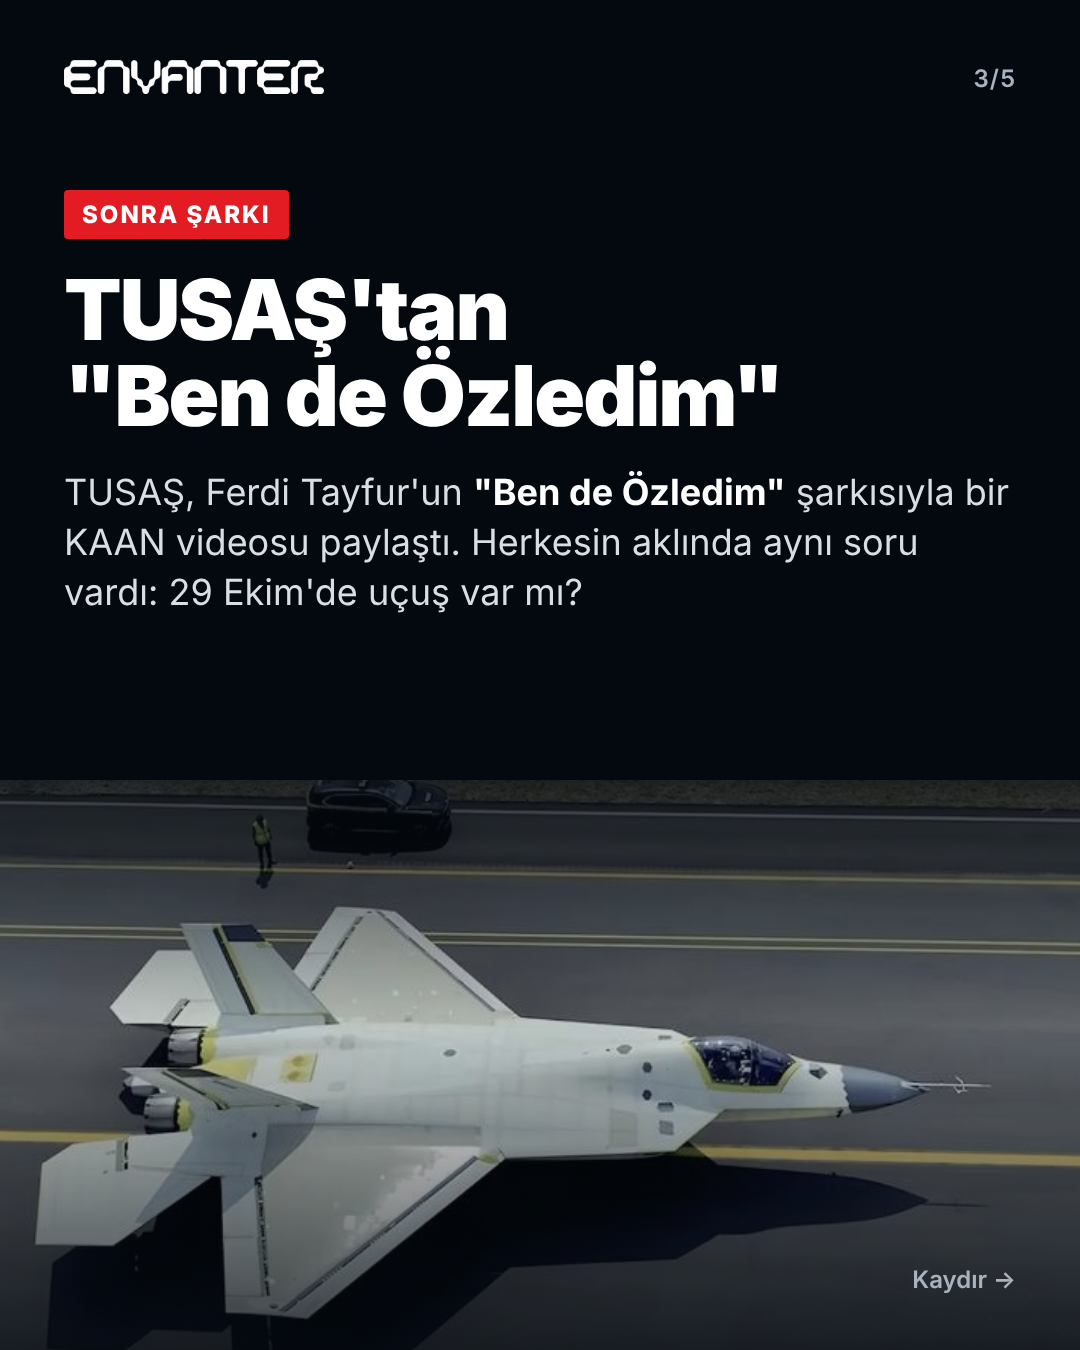
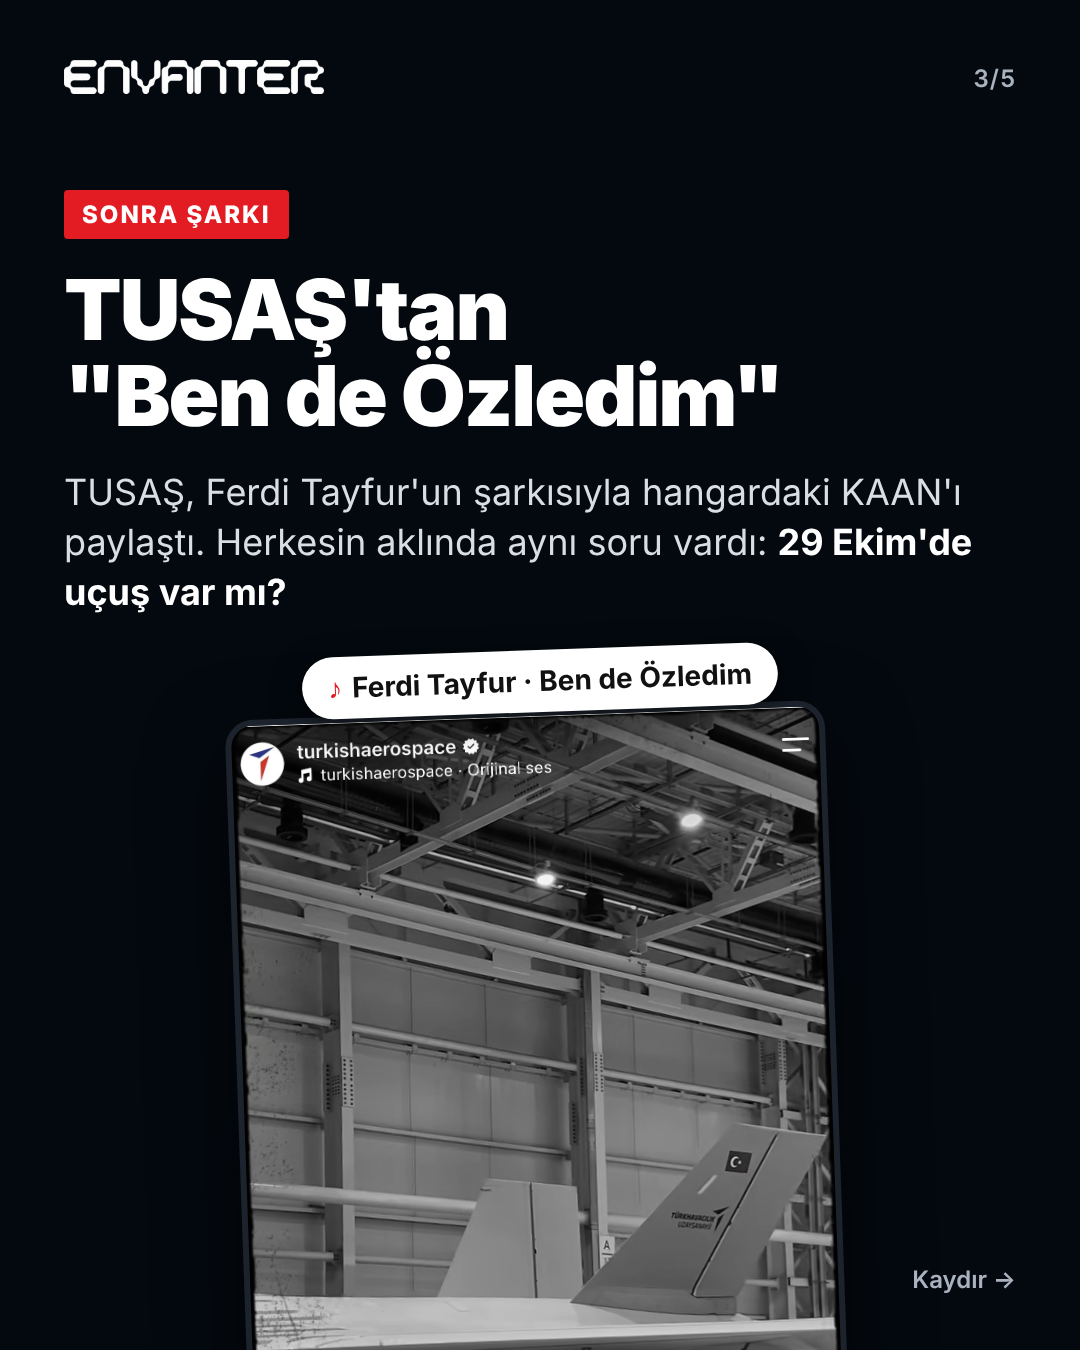
KAAN 29 Ekim carousel'i: 2. slayta iki KAAN kravatı, 3. slayta TUSAŞ paylaşımı eklendi
Claude-Session: https://claude.ai/code/session_01AWoAGzbCcH5xr3TPTj3t44

diff --git a/kartlar/kaan-29-ekim/seri.html b/kartlar/kaan-29-ekim/seri.html
@@ -42,6 +42,20 @@ body{background:#000;font-family:"Inter",sans-serif;}
 .c5 .peek{position:absolute;left:50%;bottom:-180px;width:900px;height:760px;transform:translateX(-50%);background:url(_src/ghost.jpg) -113px -470px/1126px 1397px no-repeat;
   -webkit-mask-image:linear-gradient(180deg,transparent 0%,#000 30%);mask-image:linear-gradient(180deg,transparent 0%,#000 30%)}
 .cta{display:inline-block;margin-top:40px;border:3px solid #fff;border-radius:999px;padding:16px 30px;font-size:30px;font-weight:700}
+
+/* slide 2 ties */
+.ties{position:absolute;left:64px;right:64px;top:560px;display:flex;gap:24px;z-index:4}
+.tie{position:relative;flex:1;height:640px;border-radius:14px;overflow:hidden;background:#111}
+.tie .ph{position:absolute;inset:0;background-size:cover;background-position:center top}
+.tie .sh{position:absolute;left:0;right:0;bottom:0;height:300px;background:linear-gradient(180deg,rgba(4,9,15,0),rgba(4,9,15,.95))}
+.tie .dt{position:absolute;left:22px;bottom:110px;width:170px;height:170px;border-radius:50%;border:5px solid #fff;background-size:118%;background-position:center;box-shadow:0 10px 30px rgba(0,0,0,.5)}
+.tie .cap{position:absolute;left:24px;right:20px;bottom:30px;font-size:30px;font-weight:800;line-height:1.15}
+.tie .cap span{display:block;font-size:22px;font-weight:500;color:var(--mute);margin-top:6px}
+.credit{position:absolute;left:64px;bottom:56px;font-size:20px;letter-spacing:1.5px;color:var(--mute);z-index:5}
+/* slide 3 tusas */
+.phone{position:absolute;left:50%;top:710px;width:600px;height:900px;transform:translateX(-50%) rotate(-2deg);border-radius:28px;overflow:hidden;border:6px solid #1c232d;box-shadow:0 30px 80px rgba(0,0,0,.6);background:url(_src/tusas-video.jpg) center top/600px auto no-repeat;z-index:3}
+.song{position:absolute;left:50%;top:650px;transform:translateX(-50%) rotate(-2deg);z-index:6;background:#fff;color:#111;border-radius:999px;padding:14px 26px;font-size:28px;font-weight:700;white-space:nowrap;box-shadow:0 10px 30px rgba(0,0,0,.5)}
+.song i{font-style:normal;color:var(--red);margin-right:10px}
 </style></head><body>
 
 <!-- 1 -->
@@ -61,10 +75,18 @@ body{background:#000;font-family:"Inter",sans-serif;}
   <img class="logo" src="_src/logo-white.png"><div class="num">2/5</div>
   <div class="text">
     <span class="label">ÖNCE KRAVAT</span>
-    <div class="h">Bayram öncesi ilk ipucu</div>
-    <div class="p">Cumhurbaşkanı Erdoğan'ın <b>KAAN temalı kravatı</b> gözlerden kaçmadı. Millî muharip uçak yine gündemin tam ortasındaydı.</div>
+    <div class="h">İki kravat, tek desen</div>
+    <div class="p">Cumhurbaşkanı Erdoğan önce TBMM'de mavi, 29 Ekim'de Anıtkabir'de kırmızı <b>KAAN desenli kravatla</b> görüntülendi.</div>
   </div>
-  <div class="photo" style="background-image:url(_src/kaan-top2.jpg);background-size:auto 820px;background-position:-250px 40px"></div><div class="fade"></div>
+  <div class="ties">
+    <div class="tie"><div class="ph" style="background-image:url(_src/erdogan-mavi.jpg)"></div><div class="sh"></div>
+      <div class="dt" style="background-image:url(_src/kravat-mavi.jpg)"></div>
+      <div class="cap">Mavi<span>TBMM grup toplantısı</span></div></div>
+    <div class="tie"><div class="ph" style="background-image:url(_src/erdogan-kirmizi.jpg)"></div><div class="sh"></div>
+      <div class="dt" style="background-image:url(_src/kravat-kirmizi.jpg);background-size:160%"></div>
+      <div class="cap">Kırmızı<span>29 Ekim, Anıtkabir</span></div></div>
+  </div>
+  <div class="credit">FOTO: CUMHURBAŞKANLIĞI / AA</div>
   <div class="swipe">Kaydır →</div>
 </section>
 
@@ -74,10 +96,11 @@ body{background:#000;font-family:"Inter",sans-serif;}
   <div class="text">
     <span class="label">SONRA ŞARKI</span>
     <div class="h">TUSAŞ'tan<br>"Ben de Özledim"</div>
-    <div class="p">TUSAŞ, Ferdi Tayfur'un <b>"Ben de Özledim"</b> şarkısıyla bir KAAN videosu paylaştı. Herkesin aklında aynı soru vardı: 29 Ekim'de uçuş var mı?</div>
+    <div class="p">TUSAŞ, Ferdi Tayfur'un şarkısıyla hangardaki KAAN'ı paylaştı. Herkesin aklında aynı soru vardı: <b>29 Ekim'de uçuş var mı?</b></div>
   </div>
-  <div class="photo" style="background-image:url(_src/kaan-side.jpg);background-size:1180px auto;background-position:-60px 70px"></div><div class="fade"></div>
-  <div class="swipe">Kaydır →</div>
+  <div class="song"><i>♪</i>Ferdi Tayfur · Ben de Özledim</div>
+  <div class="phone"></div>
+  <div class="swipe" style="z-index:7">Kaydır →</div>
 </section>
 
 <!-- 4 -->

diff --git a/kartlar/kaan-29-ekim/caption.md b/kartlar/kaan-29-ekim/caption.md
@@ -7,8 +7,8 @@ Kapak, Envanter'in Cadılar Bayramı için yaptığı hayalet örtülü KAAN gö
 | Slayt | İçerik |
 |---|---|
 | 1 | KAAN'dan Cumhuriyet Bayramı şakası (hayaletli KAAN) |
-| 2 | Önce kravat: Erdoğan'ın KAAN temalı kravatı |
-| 3 | Sonra şarkı: TUSAŞ'ın "Ben de Özledim" şarkılı KAAN videosu |
+| 2 | Önce kravat: Erdoğan'ın TBMM'deki mavi ve 29 Ekim'deki kırmızı KAAN desenli kravatları (Foto: Cumhurbaşkanlığı / AA) |
+| 3 | Sonra şarkı: TUSAŞ'ın "Ben de Özledim" şarkılı hangar videosunun ekran görüntüsü |
 | 4 | Bir de uyarı: Yusuf Akbaba'nın 28 Ekim tweet'i |
 | 5 | Şimdilik şaka: yeni uçuş önümüzdeki haftalarda bekleniyor |
 
@@ -16,7 +16,7 @@ Kapak, Envanter'in Cadılar Bayramı için yaptığı hayalet örtülü KAAN gö
 
 👻 KAAN'dan Cumhuriyet Bayramı şakası
 
-Önce Cumhurbaşkanı Erdoğan'ın KAAN temalı kravatı geldi, ardından TUSAŞ Ferdi Tayfur'un "Ben de Özledim" şarkısıyla bir KAAN videosu paylaştı. İşaretler o kadar güçlüydü ki çoğumuz 29 Ekim sabahı gözü gökyüzünde bekledik.
+Önce Cumhurbaşkanı Erdoğan'ın KAAN desenli kravatları geldi: TBMM'de mavisi, 29 Ekim'de Anıtkabir'de kırmızısı. TUSAŞ da Ferdi Tayfur'un "Ben de Özledim" şarkısıyla hangardaki KAAN'ı paylaştı. İşaretler o kadar güçlüydü ki çoğumuz 29 Ekim sabahı gözü gökyüzünde bekledik.
 
 KAAN ise bayramı hangarda, örtüsünün altında geçirdi. Savunma sanayii uzmanı Yusuf Akbaba bir gün önceden haber vermişti: "Beklemeyin, o kuş bugün ya da yarın uçmayacak."
 
@@ -28,10 +28,10 @@ Cumhuriyetimizin 103. yılı kutlu olsun 🇹🇷
 
 ## X
 
-KAAN'dan 29 Ekim şakası 👻 Erdoğan'ın KAAN kravatı ve TUSAŞ'ın "Ben de Özledim" videosu sonrası herkes bayramda uçuş bekledi, KAAN bayramı hangarda geçirdi. Yeni uçuş önümüzdeki haftalarda bekleniyor. Cumhuriyetimizin 103. yılı kutlu olsun 🇹🇷
+KAAN'dan 29 Ekim şakası 👻 Erdoğan'ın iki KAAN kravatı ve TUSAŞ'ın "Ben de Özledim" videosu sonrası herkes bayramda uçuş bekledi, KAAN bayramı hangarda geçirdi. Yeni uçuş önümüzdeki haftalarda bekleniyor. Cumhuriyetimizin 103. yılı kutlu olsun 🇹🇷
 
 #KAAN #TUSAŞ #29Ekim
 
 ## Kısa sürüm (story / LinkedIn)
 
-Kravat vardı, "Ben de Özledim" vardı, beklenti vardı. KAAN bu bayramı hangarda geçirdi; asıl sürpriz önümüzdeki haftalarda.
+İki kravat vardı, "Ben de Özledim" vardı, beklenti vardı. KAAN bu bayramı hangarda geçirdi; asıl sürpriz önümüzdeki haftalarda.
